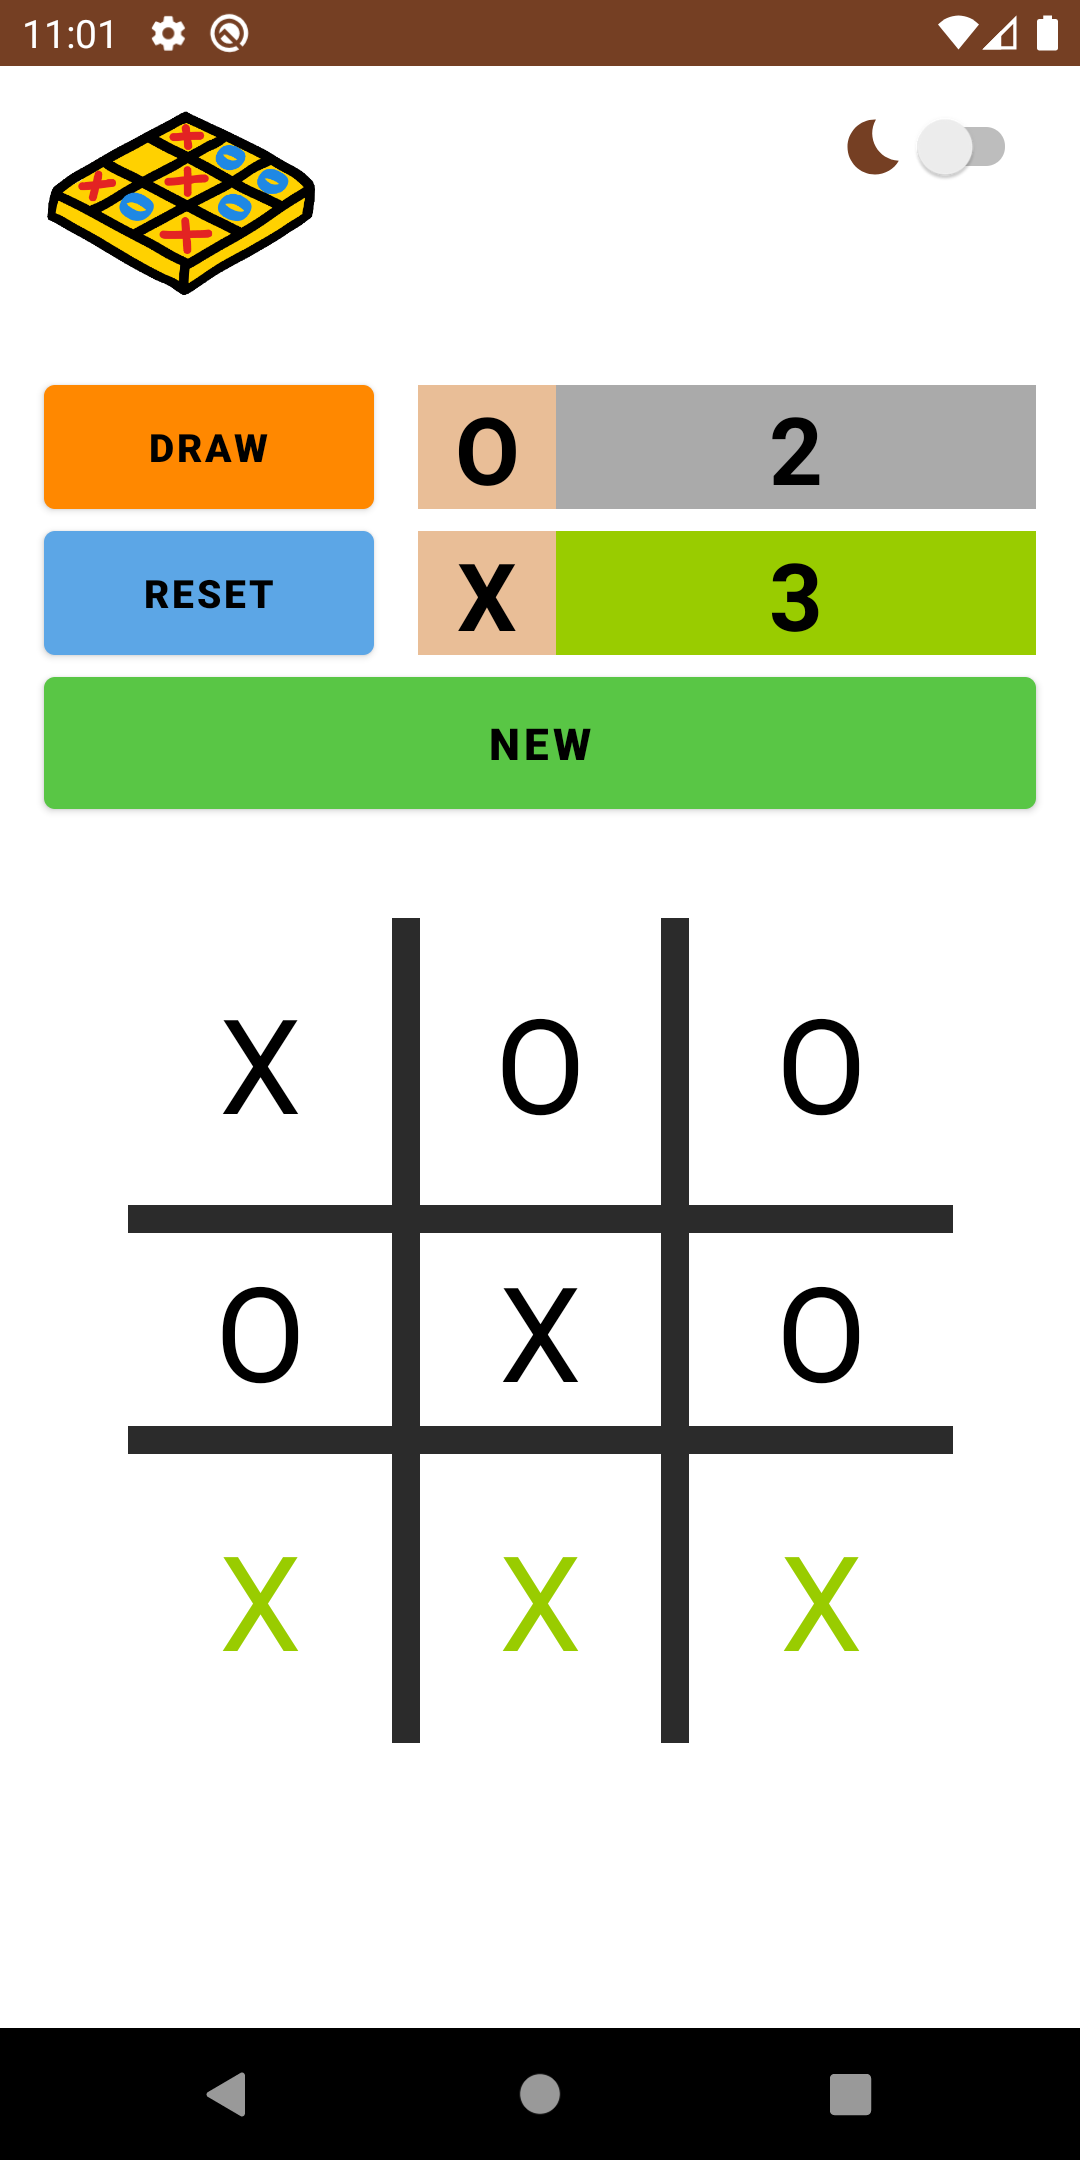
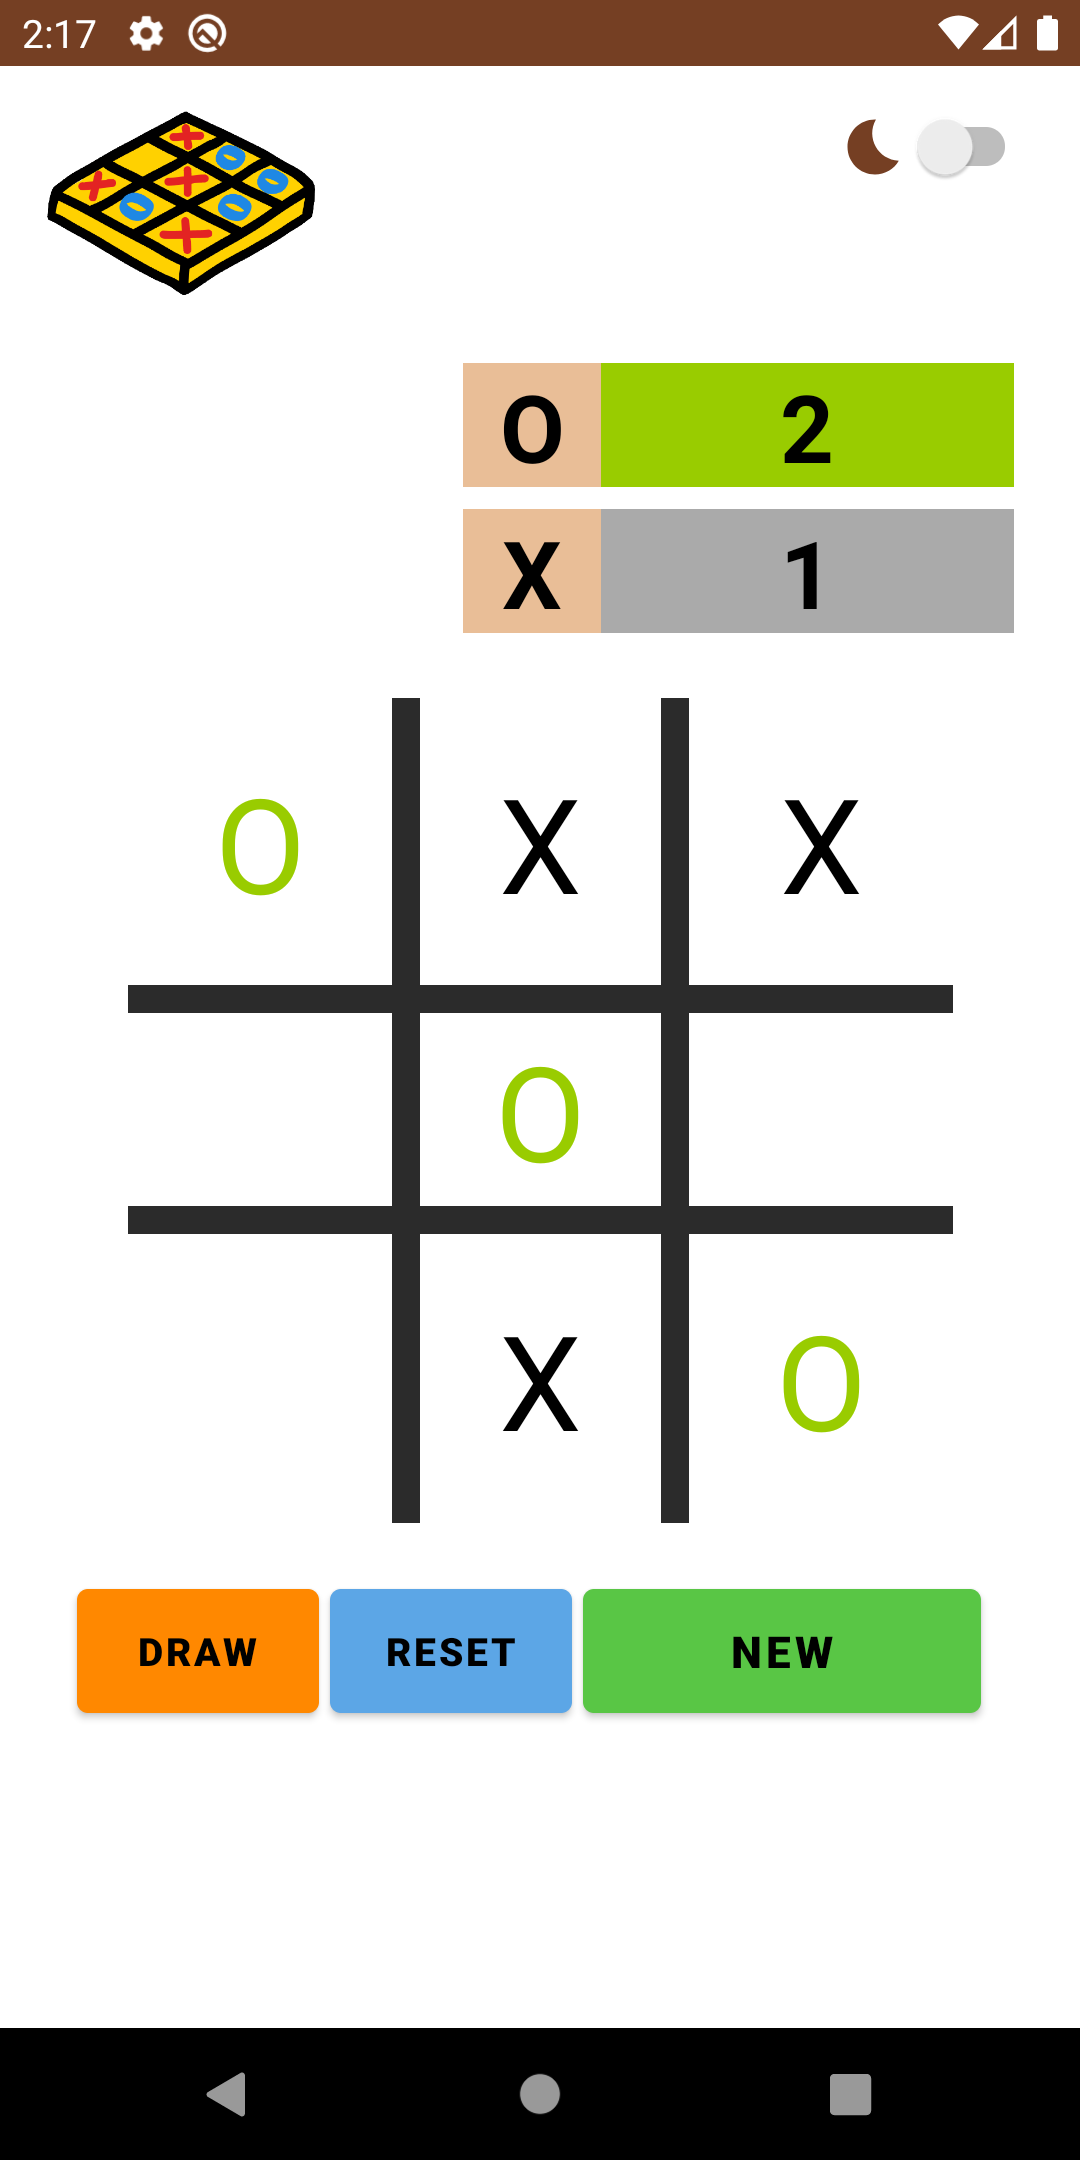
Adding a fix for the first line green winning value and a new readme images

diff --git a/app/src/main/java/com/example/tik/MainActivity.kt b/app/src/main/java/com/example/tik/MainActivity.kt
@@ -316,9 +316,9 @@ class MainActivity : AppCompatActivity() {
         if (!win && startCheck) {
             win = firstFirst == firstSecond && firstSecond == firstThird
             if (win) {
-                binding.secondFirst.setTextColor(ContextCompat.getColor(this, R.color.winning))
-                binding.secondSecond.setTextColor(ContextCompat.getColor(this, R.color.winning))
-                binding.secondThird.setTextColor(ContextCompat.getColor(this, R.color.winning))
+                binding.firstFirst.setTextColor(ContextCompat.getColor(this, R.color.winning))
+                binding.firstSecond.setTextColor(ContextCompat.getColor(this, R.color.winning))
+                binding.firstThird.setTextColor(ContextCompat.getColor(this, R.color.winning))
             }
             setPoint()
         }
